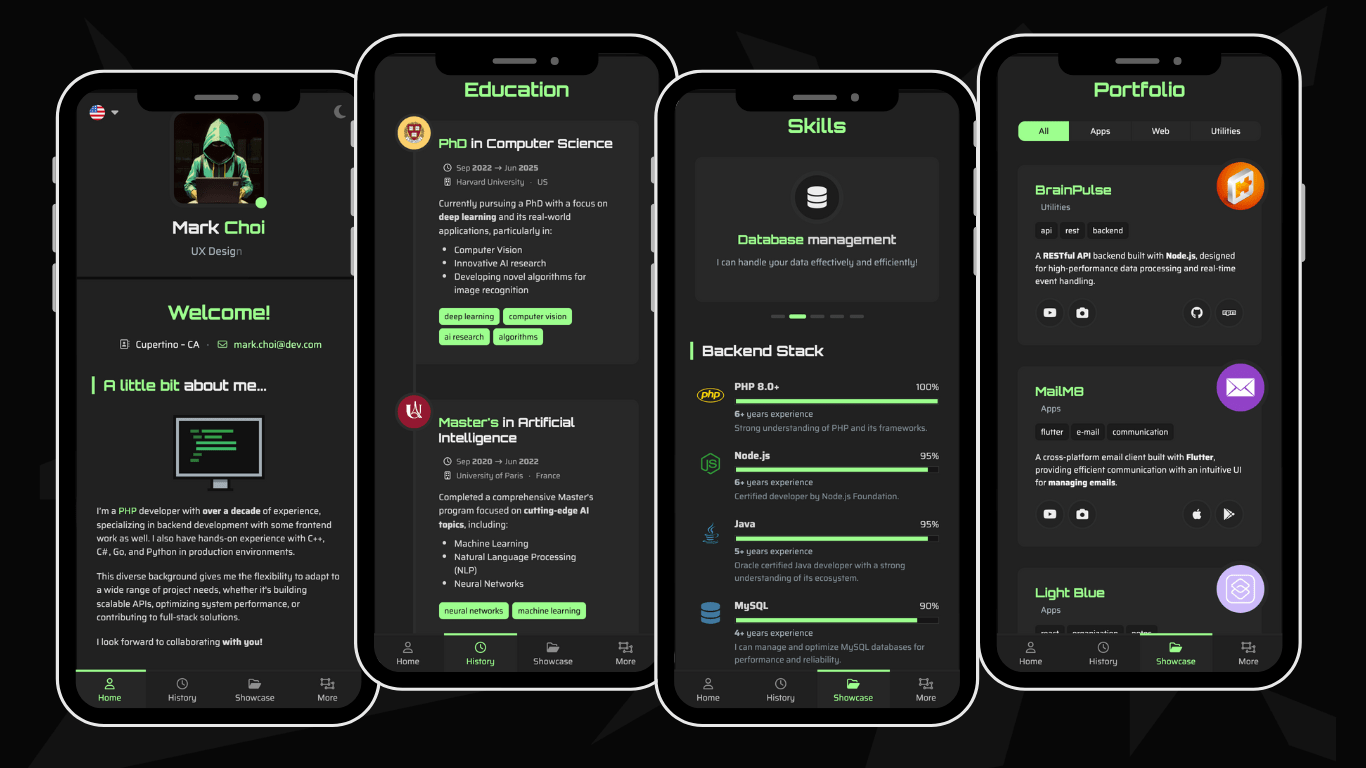
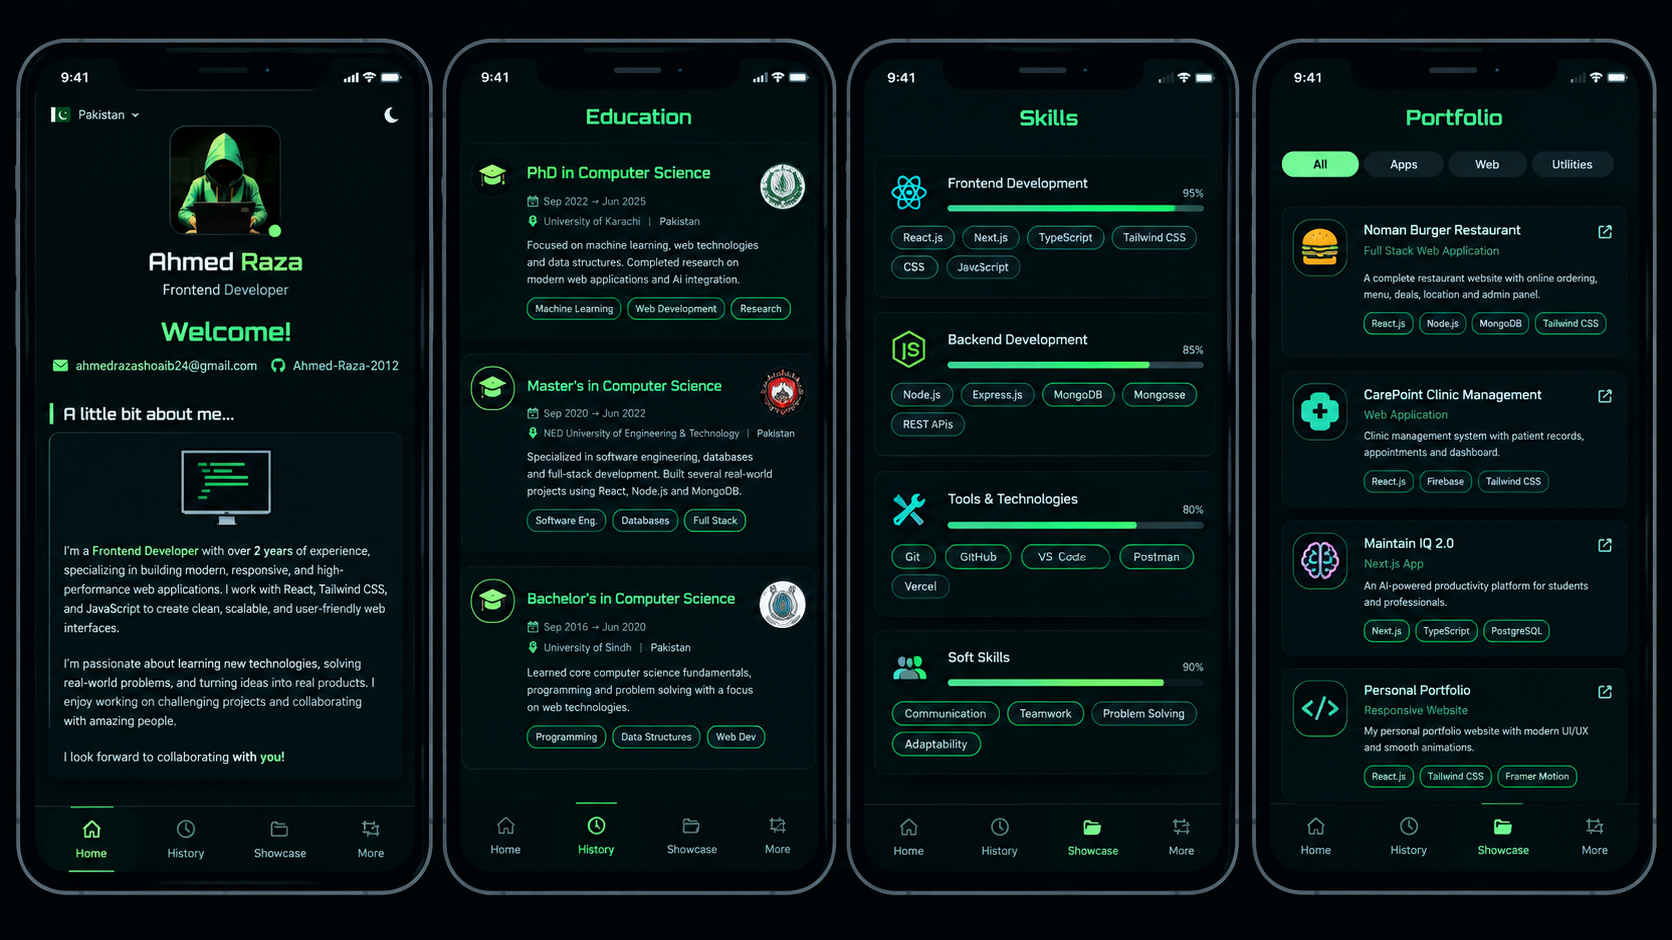
Update README file

diff --git a/README.md b/README.md
@@ -2,7 +2,7 @@
     <img src="docs/assets/logo-large.png" width="120">
 </p>
 
-# [React Portfolio](https://ryanbalieiro.github.io/react-portfolio-template/) by Ryan Balieiro
+# [React Portfolio](my-portfolio-inky-one-47.vercel.app) by Ahmed Raxs
 
 A sleek, futuristic portfolio template for developers – built with **React** and **Bootstrap 5**.
 
@@ -23,9 +23,7 @@ Here's a list of live versions of the template:
 
 | #     | Version             | Description                                             | URL                                                                     |
 |-------|---------------------|---------------------------------------------------------|-------------------------------------------------------------------------|
-| 🟢    | Mark Choi (default) | Latest deployment of the template here on GitHub pages. | [Preview](https://ryanbalieiro.github.io/react-portfolio-template/)     |
-| 🟣    | Emily Park          | An example of how the template can be customized.       | [Preview](https://ryansandbox.github.io/emily-park-react-portfolio/)    |
-| 🔵    | Michael Özkan       | Another example of how the template can be customized.  | [Preview](https://ryansandbox.github.io/michael-ozkan-react-portfolio/) |
+| 🟢    | Ahmed Raza (default) | Latest deployment of the template here on GitHub pages. | [Preview](my-portfolio-inky-one-47.vercel.app)     |
 
 ## Layout and concept
 
@@ -44,62 +42,9 @@ On mobile, the layout groups the portfolio sections into categories and transfor
 
 ![alt mobile](docs/assets/readme-mobile-screenies-min.png)
 
-## Getting Started
-
-1. Clone the repo:
-```
-git clone https://github.com/ryanbalieiro/react-portfolio-template
-```
-
-2. Go to the project's root folder and use npm to install all required components:
-```
-npm install
-```
-
-3. Launch the project in developer mode:
-```
-npm run dev
-```
-
-## Customization Tutorial
-
-Follow this step-by-step guide to customize the template with your own content and styles. You can either read the documentation or watch the interactive video tutorials:
-
-| #    | Title                       | Docs                                                                    | Video Tutorial                                                           |
-|------|-----------------------------|-------------------------------------------------------------------------|--------------------------------------------------------------------------|
-| 1    | Setting up the project      | [See Docs](./docs/tutorials/TUTORIAL_01_SETTING_UP_THE_PROJECT.md)      | [Watch on YouTube](https://www.youtube.com/watch?v=PnV8p1xm7-o&t=0m00s)  | 
-| 2    | Configuring settings.json   | [See Docs](./docs/tutorials/TUTORIAL_02_CONFIGURING_SETTINGS_JSON.md)   | [Watch on YouTube](https://www.youtube.com/watch?v=PnV8p1xm7-o&t=1m40s)  |  
-| 3    | Titles and Colors           | [See Docs](./docs/tutorials/TUTORIAL_03_TITLES_AND_COLORS.md)           | [Watch on YouTube](https://www.youtube.com/watch?v=PnV8p1xm7-o&t=5m09s)  |
-| 4    | Profile and Strings         | [See Docs](./docs/tutorials/TUTORIAL_04_PROFILE_AND_STRINGS.md)         | [Watch on YouTube](https://www.youtube.com/watch?v=PnV8p1xm7-o&t=9m11s)  |
-| 5    | Categories and Sections     | [See Docs](./docs/tutorials/TUTORIAL_05_CATEGORIES_AND_SECTIONS.md)     | [Watch on YouTube](https://www.youtube.com/watch?v=PnV8p1xm7-o&t=12m57s) | 
-| 6    | Section Titles              | [See Docs](./docs/tutorials/TUTORIAL_06_SECTION_TITLES.md)              | [Watch on YouTube](https://www.youtube.com/watch?v=PnV8p1xm7-o&t=15m14s) |
-| 7    | Section Articles            | [See Docs](./docs/tutorials/TUTORIAL_07_SECTION_ARTICLES.md)            | [Watch on YouTube](https://www.youtube.com/watch?v=PnV8p1xm7-o&t=17m01s) |
-| 8    | ArticleInlineList           | [See Docs](./docs/tutorials/TUTORIAL_08_ARTICLE_INLINE_LIST.md)         | [Watch on YouTube](https://www.youtube.com/watch?v=PnV8p1xm7-o&t=18m24s) |
-| 9    | ArticleText                 | [See Docs](./docs/tutorials/TUTORIAL_09_ARTICLE_TEXTS.md)               | [Watch on YouTube](https://www.youtube.com/watch?v=PnV8p1xm7-o&t=20m48s) |
-| 10   | ArticleCards                | [See Docs](./docs/tutorials/TUTORIAL_10_ARTICLE_CARDS.md)               | [Watch on YouTube](https://www.youtube.com/watch?v=PnV8p1xm7-o&t=23m23s) |
-| 11   | ArticleSkills               | [See Docs](./docs/tutorials/TUTORIAL_11_ARTICLE_SKILLS.md)              | [Watch on YouTube](https://www.youtube.com/watch?v=PnV8p1xm7-o&t=25m43s) |
-| 12   | ArticleTimeline             | [See Docs](./docs/tutorials/TUTORIAL_12_ARTICLE_TIMELINE.md)            | [Watch on YouTube](https://www.youtube.com/watch?v=PnV8p1xm7-o&t=29m57s) |
-| 13   | ArticleStack                | [See Docs](./docs/tutorials/TUTORIAL_13_ARTICLE_STACK.md)               | [Watch on YouTube](https://www.youtube.com/watch?v=PnV8p1xm7-o&t=34m40s) |
-| 14   | ArticlePortfolio            | [See Docs](./docs/tutorials/TUTORIAL_14_ARTICLE_PORTFOLIO.md)           | [Watch on YouTube](https://www.youtube.com/watch?v=PnV8p1xm7-o&t=37m00s) |
-| 15   | ArticleTestimonials         | [See Docs](./docs/tutorials/TUTORIAL_15_ARTICLE_TESTIMONIALS.md)        | [Watch on YouTube](https://www.youtube.com/watch?v=PnV8p1xm7-o&t=40m08s) |
-| 16   | ArticleInfoList             | [See Docs](./docs/tutorials/TUTORIAL_16_ARTICLE_INFO_LIST.md)           | [Watch on YouTube](https://www.youtube.com/watch?v=PnV8p1xm7-o&t=42m05s) |
-| 17   | ArticleFacts                | [See Docs](./docs/tutorials/TUTORIAL_17_ARTICLE_FACTS.md)               | [Watch on YouTube](https://www.youtube.com/watch?v=PnV8p1xm7-o&t=44m04s) |
-| 18   | ArticleThreads              | [See Docs](./docs/tutorials/TUTORIAL_18_ARTICLE_THREADS.md)             | [Watch on YouTube](https://www.youtube.com/watch?v=PnV8p1xm7-o&t=45m57s) |
-| 19   | ArticleContactForm          | [See Docs](./docs/tutorials/TUTORIAL_19_ARTICLE_CONTACT_FORM.md)        | [Watch on YouTube](https://www.youtube.com/watch?v=PnV8p1xm7-o&t=48m02s) |
-| 20   | Categorizing article items  | [See Docs](./docs/tutorials/TUTORIAL_20_CATEGORIZING_ARTICLE_ITEMS.md)  | [Watch on YouTube](https://www.youtube.com/watch?v=PnV8p1xm7-o&t=52m58s) |
-| 21   | Deploying for production    | [See Docs](./docs/tutorials/TUTORIAL_21_DEPLOYING_FOR_PRODUCTION.md)    | [Watch on YouTube](https://www.youtube.com/watch?v=PnV8p1xm7-o&t=55m34s) |
-
-### Bonus Tutorials
-
-Follow these additional tutorials to further enhance your portfolio with advanced features:
-
-| #    | Title                            | Docs                                                                               | Watch                                                                      |
-|------|----------------------------------|------------------------------------------------------------------------------------|----------------------------------------------------------------------------|
-| 22   | Creating your own custom article | [See Docs](./docs/tutorials/TUTORIAL_22_BONUS_CREATING_YOUR_OWN_CUSTOM_ARTICLE.md) | [Watch on YouTube](https://www.youtube.com/watch?v=PnV8p1xm7-o&t=1h00m12s) |
-
 ## About
 
-This template was created by and is maintained by **[Ryan Balieiro](https://ryanbalieiro.com/)**.
+This template was created by and is maintained by **[Ahmed Raza](https://github.com/Ahmed-Raza-2012)**.
 
 It's based on the **[React](https://reactjs.org/)** framework created by Jordan Walke, and the **[Bootstrap](https://getbootstrap.com/)** framework created by Mark Otto and Jacob Thorton.
 
